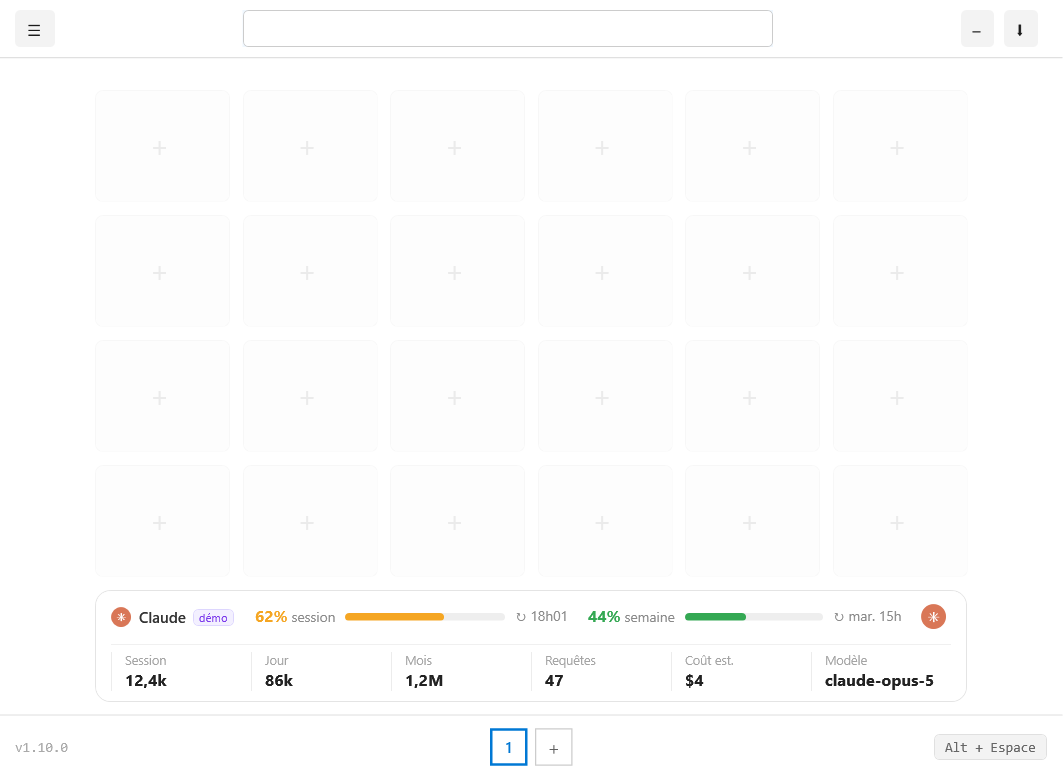
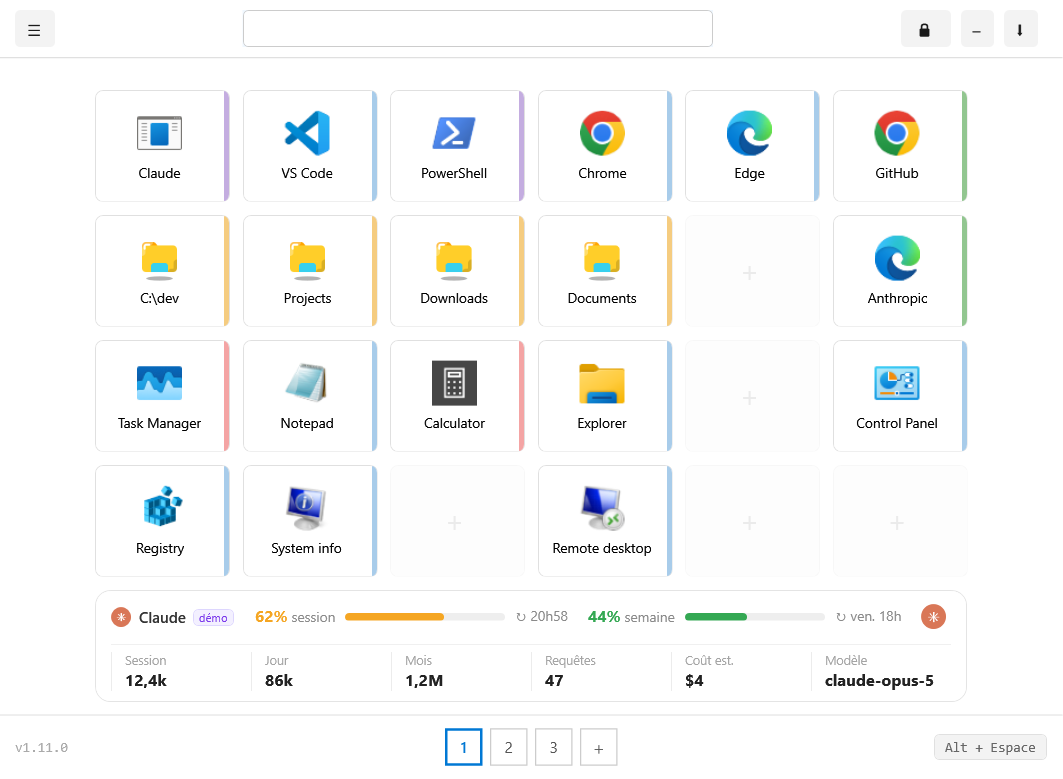
docs: la capture de la fenetre montre une grille remplie
La capture du README montrait une grille vide : ni icones, ni bandes de couleur
des types, ni pagination — donc rien de ce qui fait l'application. Les cibles
« window » de l'outil de capture ecrivent desormais une grille de demonstration
dans le profil de fixture : dix-neuf tuiles des cinq types sur trois pages,
quelques cases laissees vides parce que le « + » grise fait aussi partie de ce
qu'il faut montrer.

Les icones sont extraites d'executables reellement presents sur la machine,
choisis dans une liste de candidats — meme patron que PresetService. Rien n'est
embarque dans le depot : aucune icone tierce a redistribuer, et une machine sans
Chrome ni VS Code produit la meme capture, en moins garnie.

L'icone dossier par defaut est une ressource EMBARQUEE de DockPad, donc absente
du disque : le csproj de l'outil la copie a cote de l'exe, sans quoi les quatre
tuiles OpenFolder s'affichaient sans icone. Vu a la capture, corrige, reverifie.

Les noms de tuiles sont des noms de produit ou des chemins : ils ne se traduisent
pas, la meme grille sert donc aux deux langues.

diff --git a/tools/UsageShot/Program.cs b/tools/UsageShot/Program.cs
@@ -67,6 +67,10 @@ internal static class Program
         if (target == "window-off") fixture.Enabled = false;
         UsageConfigService.Save(fixture);
 
+        // La fenêtre entière se juge avec une grille remplie : vide, elle ne montre ni les icônes,
+        // ni les bandes de couleur des types, ni la pagination.
+        if (target is "window" or "window-off" or "window-unlocked") WriteDemoGrid();
+
         var app = new App();
         app.InitializeComponent();
         app.ShutdownMode = ShutdownMode.OnExplicitShutdown;
@@ -309,6 +313,107 @@ internal static class Program
             new DemoUsageProvider.DemoValues("gpt-4.1", 5_900, 40_000, 540_000, 88, "",
                 91, TimeSpan.FromHours(1), 88, TimeSpan.FromDays(4))),
     ];
+
+    /// <summary>
+    /// Grille de démonstration : des tuiles des cinq types, sur trois pages.
+    /// </summary>
+    /// <remarks>
+    /// <para>
+    /// Les icônes sont extraites d'exécutables <b>réellement présents</b> sur la machine, choisis
+    /// dans une liste de candidats — même patron que <c>PresetService</c>. Rien n'est embarqué dans
+    /// le dépôt : aucune icône tierce à redistribuer, et une machine sans Chrome ni VS Code produit
+    /// la même capture, en moins garnie.
+    /// </para>
+    /// <para>
+    /// Les noms sont des noms de produit ou des chemins : ils ne se traduisent pas, la capture sert
+    /// donc aux deux langues.
+    /// </para>
+    /// <para>
+    /// Quelques cases restent vides à dessein — le « + » grisé fait partie de ce qu'il faut montrer.
+    /// </para>
+    /// </remarks>
+    private static void WriteDemoGrid()
+    {
+        string local = Environment.GetFolderPath(Environment.SpecialFolder.LocalApplicationData);
+        string sys = Environment.GetFolderPath(Environment.SpecialFolder.System);
+        string win = Environment.GetFolderPath(Environment.SpecialFolder.Windows);
+
+        string code = FirstExisting(
+            Path.Combine(local, @"Programs\Microsoft VS Code\Code.exe"),
+            @"C:\Program Files\Microsoft VS Code\Code.exe");
+        string chrome = FirstExisting(
+            @"C:\Program Files\Google\Chrome\Application\chrome.exe",
+            @"C:\Program Files (x86)\Google\Chrome\Application\chrome.exe");
+        string edge = FirstExisting(
+            @"C:\Program Files (x86)\Microsoft\Edge\Application\msedge.exe",
+            @"C:\Program Files\Microsoft\Edge\Application\msedge.exe");
+        string terminal = FirstExisting(
+            Path.Combine(local, @"Microsoft\WindowsApps\wt.exe"),
+            Path.Combine(sys, "cmd.exe"));
+        string posh = Path.Combine(sys, @"WindowsPowerShell\v1.0\powershell.exe");
+        string folderIcon = Path.Combine(AppContext.BaseDirectory, "Assets", "folder.png");
+
+        var tiles = new List<ShortcutEntry>
+        {
+            Tile(0, 0, 0, "Claude", ShortcutType.OpenTerminal, @"C:\dev\DockPad", terminal),
+            Tile(0, 0, 1, "VS Code", ShortcutType.RunCommand, code, code),
+            Tile(0, 0, 2, "PowerShell", ShortcutType.OpenTerminal, @"C:\dev", posh),
+            Tile(0, 0, 3, "Chrome", ShortcutType.RunCommand, chrome, chrome),
+            Tile(0, 0, 4, "Edge", ShortcutType.RunCommand, edge, edge),
+            Tile(0, 0, 5, "GitHub", ShortcutType.OpenUrl, "https://github.com", chrome),
+
+            Tile(0, 1, 0, @"C:\dev", ShortcutType.OpenFolder, @"C:\dev", folderIcon),
+            Tile(0, 1, 1, "Projects", ShortcutType.OpenFolder, @"C:\dev\projects", folderIcon),
+            Tile(0, 1, 2, "Downloads", ShortcutType.OpenFolder, @"C:\Users\Demo\Downloads", folderIcon),
+            Tile(0, 1, 3, "Documents", ShortcutType.OpenFolder, @"C:\Users\Demo\Documents", folderIcon),
+            Tile(0, 1, 5, "Anthropic", ShortcutType.OpenUrl, "https://claude.ai", edge),
+
+            Tile(0, 2, 0, "Task Manager", ShortcutType.SwitchToProcess, "Taskmgr.exe",
+                 Path.Combine(sys, "Taskmgr.exe")),
+            Tile(0, 2, 1, "Notepad", ShortcutType.RunCommand, Path.Combine(sys, "notepad.exe"),
+                 Path.Combine(sys, "notepad.exe")),
+            Tile(0, 2, 2, "Calculator", ShortcutType.SwitchToProcess, "CalculatorApp.exe",
+                 Path.Combine(sys, "calc.exe")),
+            Tile(0, 2, 3, "Explorer", ShortcutType.RunCommand, Path.Combine(win, "explorer.exe"),
+                 Path.Combine(win, "explorer.exe")),
+            Tile(0, 2, 5, "Control Panel", ShortcutType.RunCommand, Path.Combine(sys, "control.exe"),
+                 Path.Combine(sys, "control.exe")),
+
+            Tile(0, 3, 0, "Registry", ShortcutType.RunCommand, Path.Combine(win, "regedit.exe"),
+                 Path.Combine(win, "regedit.exe")),
+            Tile(0, 3, 1, "System info", ShortcutType.RunCommand, Path.Combine(sys, "msinfo32.exe"),
+                 Path.Combine(sys, "msinfo32.exe")),
+            Tile(0, 3, 3, "Remote desktop", ShortcutType.RunCommand, Path.Combine(sys, "mstsc.exe"),
+                 Path.Combine(sys, "mstsc.exe")),
+        };
+
+        ShortcutService.Save(tiles.Where(t => t.Command.Length > 0).ToList());
+
+        // Trois pages : une seule ne montrerait pas la pagination, qui fait partie de la fenêtre.
+        PageConfigService.Save(
+        [
+            new PageConfig { Index = 0 },
+            new PageConfig { Index = 1 },
+            new PageConfig { Index = 2 },
+        ]);
+    }
+
+    private static ShortcutEntry Tile(int page, int row, int col, string name, ShortcutType type,
+                                      string command, string icon) => new()
+    {
+        Page = page, Row = row, Col = col, Name = name, Type = type,
+        Command = command, IconPath = icon,
+        Terminal = type == ShortcutType.OpenTerminal
+            ? new TerminalConfig { ExePath = icon, StartingDirectory = command }
+            : null,
+        ProcessSwitch = type == ShortcutType.SwitchToProcess
+            ? new ProcessSwitchConfig { ProcessName = command, Executable = icon }
+            : null,
+    };
+
+    /// <summary>Premier chemin existant, ou chaîne vide — la tuile est alors omise.</summary>
+    private static string FirstExisting(params string[] candidates) =>
+        candidates.FirstOrDefault(File.Exists) ?? "";
 
     /// <summary>
     /// Fixture de config : deux fournisseurs visibles seulement, plus des masqués et un non détecté.

diff --git a/CLAUDE.md b/CLAUDE.md
@@ -717,6 +717,7 @@ UsageShot.exe panel-quota docs/screenshots/usage-panel-quota.png # quota refuse 
 UsageShot.exe window-unlocked ...                               # verrou des tuiles ouvert : bouton en coche bleue
 ```
 
+- **Les cibles `window*` écrivent aussi une grille de démonstration** dans le profil de fixture : sans elle la fenêtre se juge sur une grille vide, qui ne montre ni les icônes, ni les bandes de couleur des types, ni la pagination — donc rien de ce qui fait l'application. Dix-neuf tuiles des cinq types sur trois pages, et quelques cases laissées vides parce que le `+` grisé fait partie de ce qu'il faut montrer. Les icônes sont extraites d'exécutables **réellement présents** sur la machine, choisis dans une liste de candidats (même patron que `PresetService`) : rien n'est embarqué dans le dépôt — aucune icône tierce à redistribuer — et une machine sans Chrome ni VS Code produit la même capture, en moins garnie. L'icône dossier par défaut étant une ressource **embarquée**, donc absente du disque, le csproj de l'outil la copie à côté de l'exe : sans ça les tuiles `OpenFolder` s'affichaient sans icône
 - **Fixture exclusivement `DemoUsageProvider`** (quatre instances), `ClaudeUsageProvider` délibérément absent : les vrais chiffres de consommation sont des données personnelles, et une capture doit être reproductible. C'est la raison d'être de la liste injectable de `UsageService` — le registre de production reste intact
 - La fixture déclare un fournisseur masqué et un non détecté, pour que les badges apparaissent sur la capture de la fenêtre de réglages : la machine de développement ne produit pas ces états d'elle-même
 - **Les cibles `panel` et `window` sont rendues hors écran** (`Measure`/`Arrange` explicites, sans afficher de fenêtre) : une fenêtre à `SizeToContent` mesure avant que les données arrivent et ne reprend pas la hauteur ensuite, et `Show()` sur `QuickAccessWindow` déclenche la boucle décrite plus bas
